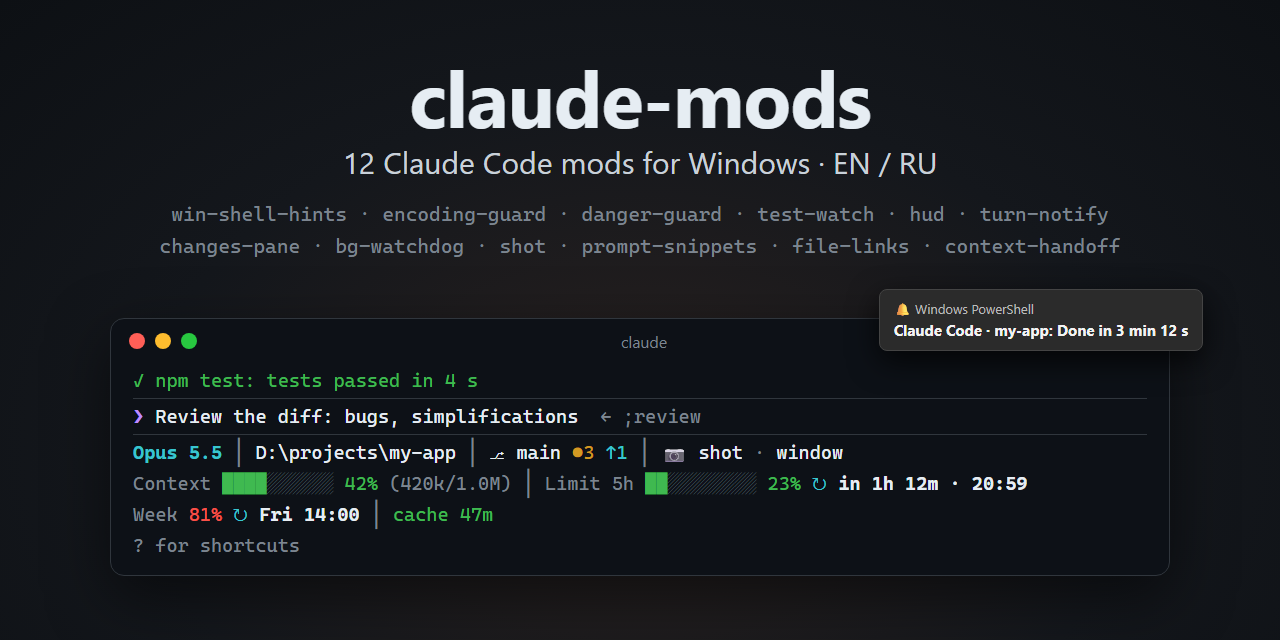
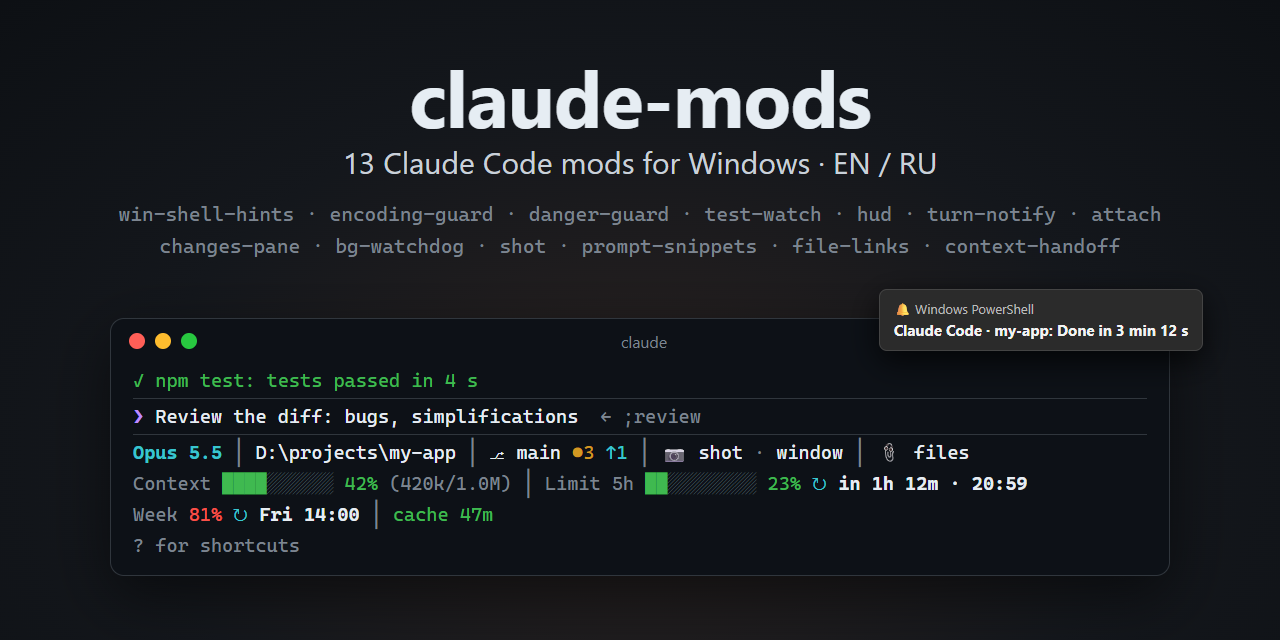
Demo and previews for thirteen mods: attach scene, 📎 in the HUD

Changed region(s): [[0.0938, 0.3125, 0.9062, 0.3438], [0.6875, 0.6875, 0.75, 0.7188], [0.2812, 0.25, 0.3125, 0.2812]]

diff --git a/tools/demo/anim.html b/tools/demo/anim.html
@@ -81,7 +81,7 @@ html,body{margin:0;width:1000px;height:620px;background:#0b0f14;overflow:hidden;
 const LANG = new URLSearchParams(location.search).get('lang') || 'en'
 const T = {
   en: {
-    subtitle: '12 mods for Claude Code on Windows · EN / RU',
+    subtitle: '13 mods for Claude Code on Windows · EN / RU',
     capEnc: 'encoding-guard — Cyrillic stays intact: UTF-8 reads in PowerShell, Python and git in UTF-8',
     capDanger: 'danger-guard — git commands that discard work run after a snapshot; irreversible ones wait for you',
     capNotify: 'turn-notify — a Windows notification when Claude is done or needs you',
@@ -89,6 +89,8 @@ const T = {
     capChanges: 'changes-pane — click the branch: every file changed in the session, with diffs',
     capShot: 'shot — screenshots straight into the prompt, several in one message',
     capSnip: 'prompt-snippets — ;name expands to a prompt you saved',
+    capAttach: 'attach — files from anywhere into the prompt, several at once; binaries by path only',
+    attach_btn: 'files', attach_title: 'Attach files to the prompt', open_btn: 'Open', downloads: 'Downloads', attach_q: ' build this page',
     ask_readme: 'what does the README say?', enc_tag: '  ← encoding-guard', report_ok: 'report ready ✓',
     snap_note: 'danger-guard: snapshot b25ff81 saved · /guard to restore', toast_snap: 'danger-guard: saved a snapshot before git reset --hard',
     q_head: 'Danger', q_text: 'Claude wants to run something irreversible — a force push rewrites history on the remote. Run it?',
@@ -129,10 +131,10 @@ const T = {
     quick: 'Quick access', this_pc: 'This PC', new_window: 'new window', welcome: 'Welcome back!',
     context: 'Context', limit5: 'Limit 5h', week: 'Week', reset5: 'in 1h 12m · 20:59', resetw: 'Fri 14:00',
     cache: m => `cache ${m}m`, cache_run: 'cache ● turn running',
-    install: 'Install the ones you want — or all twelve',
+    install: 'Install the ones you want — or all thirteen',
   },
   ru: {
-    subtitle: '12 модов для Claude Code под Windows · EN / RU',
+    subtitle: '13 модов для Claude Code под Windows · EN / RU',
     capEnc: 'encoding-guard — кириллица цела: чтение UTF-8 в PowerShell, Python и git в UTF-8',
     capDanger: 'danger-guard — git-команды, выбрасывающие работу, идут после снимка; необратимые ждут вас',
     capNotify: 'turn-notify — уведомление Windows, когда Claude закончил или ждёт вас',
@@ -140,6 +142,8 @@ const T = {
     capChanges: 'changes-pane — клик по ветке: все файлы, изменённые за сессию, с диффами',
     capShot: 'shot — скриншоты прямо в промпт, несколько в одном сообщении',
     capSnip: 'prompt-snippets — ;имя разворачивается в сохранённый промпт',
+    capAttach: 'attach — файлы откуда угодно в промпт, сразу несколько; бинарные — только путём',
+    attach_btn: 'файлы', attach_title: 'Прикрепить файлы к промпту', open_btn: 'Открыть', downloads: 'Загрузки', attach_q: ' сверстай эту страницу',
     ask_readme: 'что в README?', enc_tag: '  ← encoding-guard', report_ok: 'отчёт готов ✓',
     snap_note: 'danger-guard: снимок b25ff81 сохранён · вернуть: /guard', toast_snap: 'danger-guard: сохранил снимок перед git reset --hard',
     q_head: 'Опасно', q_text: 'Claude хочет выполнить необратимое — принудительный push перепишет историю на remote. Выполнить?',
@@ -180,7 +184,7 @@ const T = {
     quick: 'Быстрый доступ', this_pc: 'Этот компьютер', new_window: 'новое окно', welcome: 'С возвращением!',
     context: 'Контекст', limit5: 'Лимит 5ч', week: 'Неделя', reset5: 'через 1ч 12м · 20:59', resetw: 'пт 14:00',
     cache: m => `кэш ${m} мин`, cache_run: 'кэш ● ход идёт',
-    install: 'Ставьте нужные — или все двенадцать',
+    install: 'Ставьте нужные — или все тринадцать',
   },
 }[LANG]
 
@@ -226,12 +230,13 @@ const flip = (t, at, a, b, cls) => {
 // A plain button under the pointer: inverted, as the terminal draws it.
 const hov = k => (k ? ` style="background:rgba(230,237,243,${0.9 * k});color:${k > 0.5 ? '#0d1117' : '#e6edf3'}"` : '')
 function hud(o) {
-  const { ctx = 18, tokens = '180k', lim = 23, cacheHtml, working = false, folder = 'D:\\projects\\my-app', glow = 0, folderHover = 0, branchHover = 0, shotHover = 0, dirty = 2 } = o
+  const { ctx = 18, tokens = '180k', lim = 23, cacheHtml, working = false, folder = 'D:\\projects\\my-app', glow = 0, folderHover = 0, branchHover = 0, shotHover = 0, attachHover = 0, dirty = 2 } = o
   const cache = cacheHtml ?? (working ? sp(T.cache_run, 'green') : sp(T.cache(47), 'green'))
   const fstyle = folderHover ? ` style="background:rgba(230,237,243,${0.9 * folderHover});color:${folderHover > 0.5 ? '#0d1117' : '#e6edf3'}"` : ''
   const rows = [
     sp('Opus 5.5', 'cyan b') + SEP + `<span id="folder" class="fg"${fstyle}>${esc(folder)}</span>` + SEP + `<span id="branch" class="fg"${hov(branchHover)}>⎇ main</span>` + sp(` ●${dirty}`, 'yellow') + sp(' ↑1', 'cyan') +
-      SEP + '📷 ' + `<span id="shotbtn" class="fg"${hov(shotHover)}>${esc(T.shot_btn)}</span>` + sp(' · ', 'dim') + sp(T.shot_win, 'fg'),
+      SEP + '📷 ' + `<span id="shotbtn" class="fg"${hov(shotHover)}>${esc(T.shot_btn)}</span>` + sp(' · ', 'dim') + sp(T.shot_win, 'fg') +
+      SEP + '📎 ' + `<span id="attachbtn" class="fg"${hov(attachHover)}>${esc(T.attach_btn)}</span>`,
     sp(T.context + ' ', 'dim') + meter(ctx) + ' ' + sp(`${Math.round(ctx)}%`, levelCls(ctx)) + sp(` (${tokens}/1.0M)`, 'dim') + SEP +
       sp(T.limit5 + ' ', 'dim') + meter(lim) + ' ' + sp(`${Math.round(lim)}%`, levelCls(lim)) + '  ' + sp('↻ ', 'cyan') + sp(T.reset5, 'fg b'),
     sp(T.week + ' ', 'dim') + sp('81%', 'red') + '  ' + sp('↻ ', 'cyan') + sp(T.resetw, 'fg b') + SEP + cache,
@@ -283,7 +288,7 @@ const scene = (dur, cap, fn) => SCENES.push({ dur, cap, fn })
 scene(2800, null, t => {
   const out = 1 - inOutCubic(prog(t, 2450, 350))
   const h = outCubic(prog(t, 100, 600)), p = outCubic(prog(t, 350, 600))
-  const chips = ['win-shell-hints', 'encoding-guard', 'file-links', 'danger-guard', 'test-watch', 'turn-notify', 'changes-pane', 'shot', 'prompt-snippets', 'bg-watchdog', 'context-handoff', 'hud'].map((m, i) => {
+  const chips = ['win-shell-hints', 'encoding-guard', 'file-links', 'danger-guard', 'test-watch', 'turn-notify', 'changes-pane', 'shot', 'attach', 'prompt-snippets', 'bg-watchdog', 'context-handoff', 'hud'].map((m, i) => {
     const k = prog(t, 650 + i * 70, 440)
     return `<span class="chip" style="opacity:${outCubic(k)};transform:translateY(${(1 - outCubic(k)) * 14}px) scale(${lerp(0.85, 1, outBack(k))})">${m}</span>`
   }).join('')
@@ -291,7 +296,7 @@ scene(2800, null, t => {
 })
 
 // 1. win-shell-hints
-scene(7600, { step: '1/12', text: T.cap1 }, t => {
+scene(7600, { step: '1/13', text: T.cap1 }, t => {
   const sent = 1500
   const tr = [
     appear(t, sent, user(T.ask_build)),
@@ -311,7 +316,7 @@ scene(7600, { step: '1/12', text: T.cap1 }, t => {
 })
 
 // 2. encoding-guard
-scene(6400, { step: '2/12', text: T.capEnc }, t => {
+scene(6400, { step: '2/13', text: T.capEnc }, t => {
   const sent = 1200
   // `-Encoding UTF8` opens up inside the command as the mod adds it.
   const k = inOutCubic(prog(t, 2000, 450))
@@ -328,7 +333,7 @@ scene(6400, { step: '2/12', text: T.capEnc }, t => {
 })
 
 // 3. file-links
-scene(7000, { step: '3/12', text: T.cap2 }, (t, S) => {
+scene(7000, { step: '3/13', text: T.cap2 }, (t, S) => {
   const sent = 1300
   const r = T.reply
   const morph = i => prog(t, 2600 + i * 160, 420)
@@ -355,7 +360,7 @@ scene(7000, { step: '3/12', text: T.cap2 }, (t, S) => {
 })
 
 // 4. danger-guard
-scene(8200, { step: '4/12', text: T.capDanger }, (t, S) => {
+scene(8200, { step: '4/13', text: T.capDanger }, (t, S) => {
   const tr = [
     appear(t, 200, tool('Bash', 'git reset --hard', '', t < 1100 ? running(t) : null)),
     appear(t, 1100, result('HEAD is now at 5d210ff')),
@@ -378,7 +383,7 @@ scene(8200, { step: '4/12', text: T.capDanger }, (t, S) => {
 })
 
 // 5. test-watch
-scene(9400, { step: '5/12', text: T.capTests }, (t, S) => {
+scene(9400, { step: '5/13', text: T.capTests }, (t, S) => {
   const sent = 1000, fed = 6000
   let tr
   if (t < fed) {
@@ -406,7 +411,7 @@ scene(9400, { step: '5/12', text: T.capTests }, (t, S) => {
 })
 
 // 6. turn-notify
-scene(7600, { step: '6/12', text: T.capNotify }, t => {
+scene(7600, { step: '6/13', text: T.capNotify }, t => {
   const tr = appear(t, 0, user(T.ask_export)) + appear(t, 200, tool('Bash', 'npm run build', '', t < 3400 ? running(t) : null)) + appear(t, 3400, result('✓ build ok', 'green')) + appear(t, 3600, say(sp(T.export_done)))
   // The person switched to the browser; the notification finds them there.
   const bk = prog(t, 900, 420), bOut = 1 - inOutCubic(prog(t, 6900, 300))
@@ -421,7 +426,7 @@ scene(7600, { step: '6/12', text: T.capNotify }, t => {
 })
 
 // 7. changes-pane
-scene(8200, { step: '7/12', text: T.capChanges }, (t, S) => {
+scene(8200, { step: '7/13', text: T.capChanges }, (t, S) => {
   const tr = appear(t, 0, say(sp(T.export_done)))
   const pk = prog(t, 1600, 320), pOut = 1 - inOutCubic(prog(t, 7700, 300))
   const bh = outCubic(prog(t, 1250, 150)) * (1 - prog(t, 1700, 200))
@@ -449,7 +454,7 @@ scene(8200, { step: '7/12', text: T.capChanges }, (t, S) => {
 })
 
 // 8. shot
-scene(8800, { step: '8/12', text: T.capShot }, (t, S) => {
+scene(8800, { step: '8/13', text: T.capShot }, (t, S) => {
   const shot1 = 2500, shot2 = 4900, sent = 7400
   const sh = outCubic(prog(t, 1100, 150)) * (1 - prog(t, 1500, 200)) + outCubic(prog(t, 3500, 150)) * (1 - prog(t, 3900, 200))
   // The snipping overlay: the screen dims and a region is dragged out.
@@ -474,8 +479,39 @@ scene(8800, { step: '8/12', text: T.capShot }, (t, S) => {
   return { html: terminal({ transcript: tr, prompt, overlay, h: hud({ shotHover: sh, working: t > sent }) }) }
 })
 
-// 9. prompt-snippets
-scene(6600, { step: '9/12', text: T.capSnip }, t => {
+// 9. attach
+scene(10400, { step: '9/13', text: T.capAttach }, (t, S) => {
+  const clicks = [1100, 2300, 3000, 3650, 4500], filled = 4750, sent = 7600
+  const ah = outCubic(prog(t, 950, 150)) * (1 - prog(t, 1300, 200))
+  let overlay = ''
+  const dk = prog(t, 1250, 320), dOut = 1 - inOutCubic(prog(t, 4650, 220))
+  if (dk > 0 && dOut > 0) {
+    const files = [['🖼', 'mockup.png'], ['📄', 'notes.txt'], ['📕', 'spec.pdf'], ['🗜', 'data.zip'], ['⚙', 'installer.exe']]
+    const picked = [[0, clicks[1]], [2, clicks[2]], [3, clicks[3]]]
+    const sels = picked.map(([i, at]) => { const k = outCubic(prog(t, at, 160)); return k > 0 ? `<div class="sel" style="top:${i * 28}px;opacity:${k}"></div>` : '' }).join('')
+    const items = files.map(([icon, f], i) => `<div class="it" id="it${i}">${icon} ${f}</div>`).join('')
+    const bh = outCubic(prog(t, 4300, 150)), bp = Math.sin(Math.PI * prog(t, clicks[4], 180))
+    overlay = `<div class="ov dlg" style="opacity:${outCubic(dk) * dOut};transform:scale(${lerp(0.95, 1, outBack(dk)) * lerp(0.97, 1, dOut)})"><div class="t">${esc(T.attach_title)}</div><div class="addr">D:\\Downloads</div>
+<div class="side">★ ${esc(T.quick)}<br>⬇ ${esc(T.downloads)}<br>🖥 ${esc(T.this_pc)}<br>💽 C:<br>💽 D:</div><div class="list">${sels}<div style="position:relative">${items}</div></div>
+<div class="foot"><span class="b1" id="openb" style="${bh ? `outline:2px solid rgba(0,62,115,${bh});` : ''}transform:scale(${1 - 0.05 * bp})">${esc(T.open_btn)}</span><span class="b2">${esc(T.cancel)}</span></div></div>`
+  }
+  const mentions = `<span class="mention">@D:\\Downloads\\mockup.png</span> <span class="mention">@D:\\Downloads\\spec.pdf</span> ${sp('D:\\Downloads\\data.zip', 'fg')}`
+  let prompt = caret(t, false)
+  if (t >= filled && t < sent) {
+    const [q, done] = typed(t, 5400, T.attach_q, 16)
+    prompt = mentions + sp(t >= 5400 ? q : ' ', 'fg') + caret(t, t > 5400 && !done)
+  }
+  const tr = appear(t, sent, `${sp('> ', 'dim')}${mentions}${sp(T.attach_q)}`) +
+    appear(t, sent + 300, tool('Read', 'mockup.png')) + appear(t, sent + 500, tool('Read', 'spec.pdf')) +
+    appear(t, sent + 800, tool('Bash', 'tar -tf D:\\Downloads\\data.zip', '', t < sent + 1500 ? running(t) : null)) + appear(t, sent + 1500, result('products.json  prices.csv'))
+  S.cursor = [{ at: 300, dur: 650, target: 'attachbtn' }, { at: 1700, dur: 500, target: 'it0' }, { at: 2550, dur: 400, target: 'it2' }, { at: 3200, dur: 380, target: 'it3' }, { at: 3900, dur: 500, target: 'openb' }]
+  S.clicks = clicks
+  S.cursorOut = 4800
+  return { html: terminal({ transcript: tr, prompt, overlay, h: hud({ attachHover: ah, working: t > sent }) }) }
+})
+
+// 10. prompt-snippets
+scene(6600, { step: '10/13', text: T.capSnip }, t => {
   const picked = 2600, sent = 4600
   let prompt, band = '', bandK = 0
   if (t < picked) {
@@ -493,8 +529,8 @@ scene(6600, { step: '9/12', text: T.capSnip }, t => {
   return { html: terminal({ transcript: tr, prompt, band, bandK, h: hud({ working: t > sent }) }) }
 })
 
-// 10. bg-watchdog
-scene(6600, { step: '10/12', text: T.cap3 }, (t, S) => {
+// 11. bg-watchdog
+scene(6600, { step: '11/13', text: T.cap3 }, (t, S) => {
   const tr = appear(t, 200, tool('Bash', 'npm run dev', sp('  · ' + T.bg_started, 'dim'))) + appear(t, 500, result('VITE ready on http://localhost:5173'))
   const bandIn = outCubic(prog(t, 1000, 320)), bandOut = 1 - inOutCubic(prog(t, 3500, 260))
   const hover = outCubic(prog(t, 2900, 150)), press = Math.sin(Math.PI * prog(t, 3200, 180))
@@ -506,8 +542,8 @@ scene(6600, { step: '10/12', text: T.cap3 }, (t, S) => {
   return { html: terminal({ transcript: tr, band, bandK: bandIn * bandOut, toast: { text: T.toast_stopped, k: toastK(t, 3650, 6000) } }) }
 })
 
-// 11. context-handoff
-scene(9600, { step: '11/12', text: T.cap4 }, (t, S) => {
+// 12. context-handoff
+scene(9600, { step: '12/13', text: T.cap4 }, (t, S) => {
   const grow = inOutCubic(prog(t, 300, 1300))
   let ctx = lerp(31, 35.2, grow), tokens = `${Math.round(lerp(310, 352, grow))}k`
   const cleared = 6300
@@ -540,8 +576,8 @@ scene(9600, { step: '11/12', text: T.cap4 }, (t, S) => {
   }
 })
 
-// 12. hud
-scene(11000, { step: '12/12', text: T.cap5, at2: 3300, text2: T.cap5b }, (t, S) => {
+// 13. hud
+scene(11000, { step: '13/13', text: T.cap5, at2: 3300, text2: T.cap5b }, (t, S) => {
   const glow = inOutCubic(prog(t, 400, 500)) * (1 - inOutCubic(prog(t, 3000, 400)))
   const dimTr = 1 - 0.6 * glow
   const lim = lerp(23, 24, inOutCubic(prog(t, 1700, 600)))
@@ -580,7 +616,7 @@ scene(11000, { step: '12/12', text: T.cap5, at2: 3300, text2: T.cap5b }, (t, S) 
   }
 })
 
-// 13. End card
+// 14. End card
 scene(4400, null, t => {
   const k = outCubic(prog(t, 0, 500)), out = 1 - inOutCubic(prog(t, 4000, 400))
   const cmd = '/plugin install hud --marketplace ArtyaEXE/claude-mods'

diff --git a/tools/demo/social.html b/tools/demo/social.html
@@ -18,14 +18,14 @@ h1{margin:0;position:absolute;top:44px;left:0;right:0;text-align:center;font-siz
 </style></head>
 <body>
 <h1>claude-mods</h1>
-<div class="sub">12 Claude Code mods for Windows · EN / RU</div>
-<div class="mods">win-shell-hints · encoding-guard · danger-guard · test-watch · hud · turn-notify<br>changes-pane · bg-watchdog · shot · prompt-snippets · file-links · context-handoff</div>
+<div class="sub">13 Claude Code mods for Windows · EN / RU</div>
+<div class="mods">win-shell-hints · encoding-guard · danger-guard · test-watch · hud · turn-notify · attach<br>changes-pane · bg-watchdog · shot · prompt-snippets · file-links · context-handoff</div>
 <div class="win">
   <div class="bar"><span class="dot" style="background:#ff5f57"></span><span class="dot" style="background:#febc2e"></span><span class="dot" style="background:#28c840"></span><span style="flex:1;text-align:center;margin-right:70px">claude</span></div>
   <div class="toast"><div class="a">🔔 Windows PowerShell</div><b>Claude Code · my-app: Done in 3 min 12 s</b></div>
   <div class="body"><span class="green">✓ npm test: tests passed in 4 s</span>
 <div class="line"></div><span class="magenta">❯ </span><span class="fg">Review the diff: bugs, simplifications</span><span class="dim">  ← ;review</span>
-<div class="line"></div><span class="cyan b">Opus 5.5</span><span class="dim"> │ </span><span class="fg">D:\projects\my-app</span><span class="dim"> │ </span><span class="fg">⎇ main</span><span class="yellow"> ●3</span><span class="cyan"> ↑1</span><span class="dim"> │ </span>📷 <span class="fg">shot</span><span class="dim"> · </span><span class="fg">window</span>
+<div class="line"></div><span class="cyan b">Opus 5.5</span><span class="dim"> │ </span><span class="fg">D:\projects\my-app</span><span class="dim"> │ </span><span class="fg">⎇ main</span><span class="yellow"> ●3</span><span class="cyan"> ↑1</span><span class="dim"> │ </span>📷 <span class="fg">shot</span><span class="dim"> · </span><span class="fg">window</span><span class="dim"> │ </span>📎 <span class="fg">files</span>
 <span class="dim">Context </span><span class="green">████</span><span class="dim">░░░░░░</span><span class="green"> 42%</span><span class="dim"> (420k/1.0M) │ Limit 5h </span><span class="green">██</span><span class="dim">░░░░░░░░</span><span class="green"> 23%</span><span class="cyan"> ↻</span><span class="fg b"> in 1h 12m · 20:59</span>
 <span class="dim">Week </span><span class="red">81%</span><span class="cyan"> ↻</span><span class="fg b"> Fri 14:00</span><span class="dim"> │ </span><span class="green">cache 47m</span>
 <span class="dim">? for shortcuts</span></div>

diff --git a/tools/demo/README.md b/tools/demo/README.md
@@ -16,7 +16,7 @@ npm install
 node build.js all      # or: node build.js en / node build.js ru
 ```
 
-About 4 minutes per language at 25 fps (the demo runs 104 s).
+About 4 minutes per language at 25 fps (the demo runs 115 s).
 
 `social.html` is the repository's social preview (`assets/social-preview.png`, 1280×640): open it in a browser at that size and take a screenshot, or `chrome --headless --window-size=1280,640 --screenshot=social-preview.png social.html`.
 
@@ -30,6 +30,6 @@ About 4 minutes per language at 25 fps (the demo runs 104 s).
 - `render.js` — открывает `anim.html` в Edge без окна через `puppeteer-core` и снимает каждый кадр.
 - `build.js` — рендерит кадры, собирает GIF через `ffmpeg` и кладёт в `assets/`.
 
-Нужны Node.js, Microsoft Edge и `ffmpeg` в `PATH`. Сборка: `cd tools/demo`, `npm install`, `node build.js all`. Около 4 минут на язык при 25 fps (демо идёт 104 с).
+Нужны Node.js, Microsoft Edge и `ffmpeg` в `PATH`. Сборка: `cd tools/demo`, `npm install`, `node build.js all`. Около 4 минут на язык при 25 fps (демо идёт 115 с).
 
 `social.html` — картинка репозитория для соцсетей (`assets/social-preview.png`, 1280×640): открой в браузере этого размера и сделай скриншот или `chrome --headless --window-size=1280,640 --screenshot=social-preview.png social.html`.
